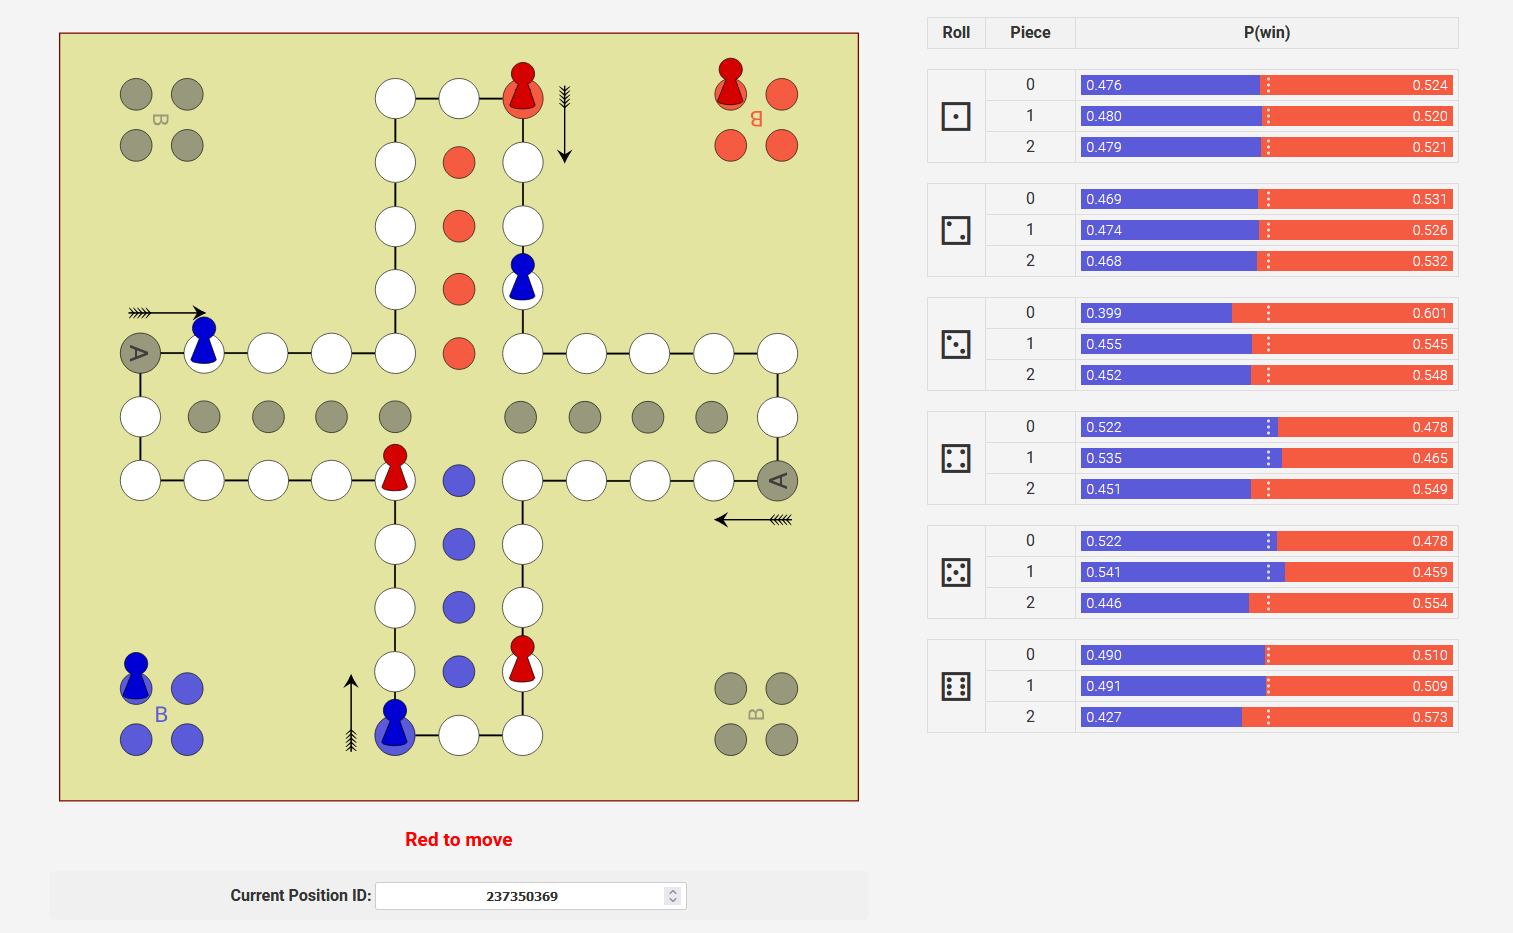
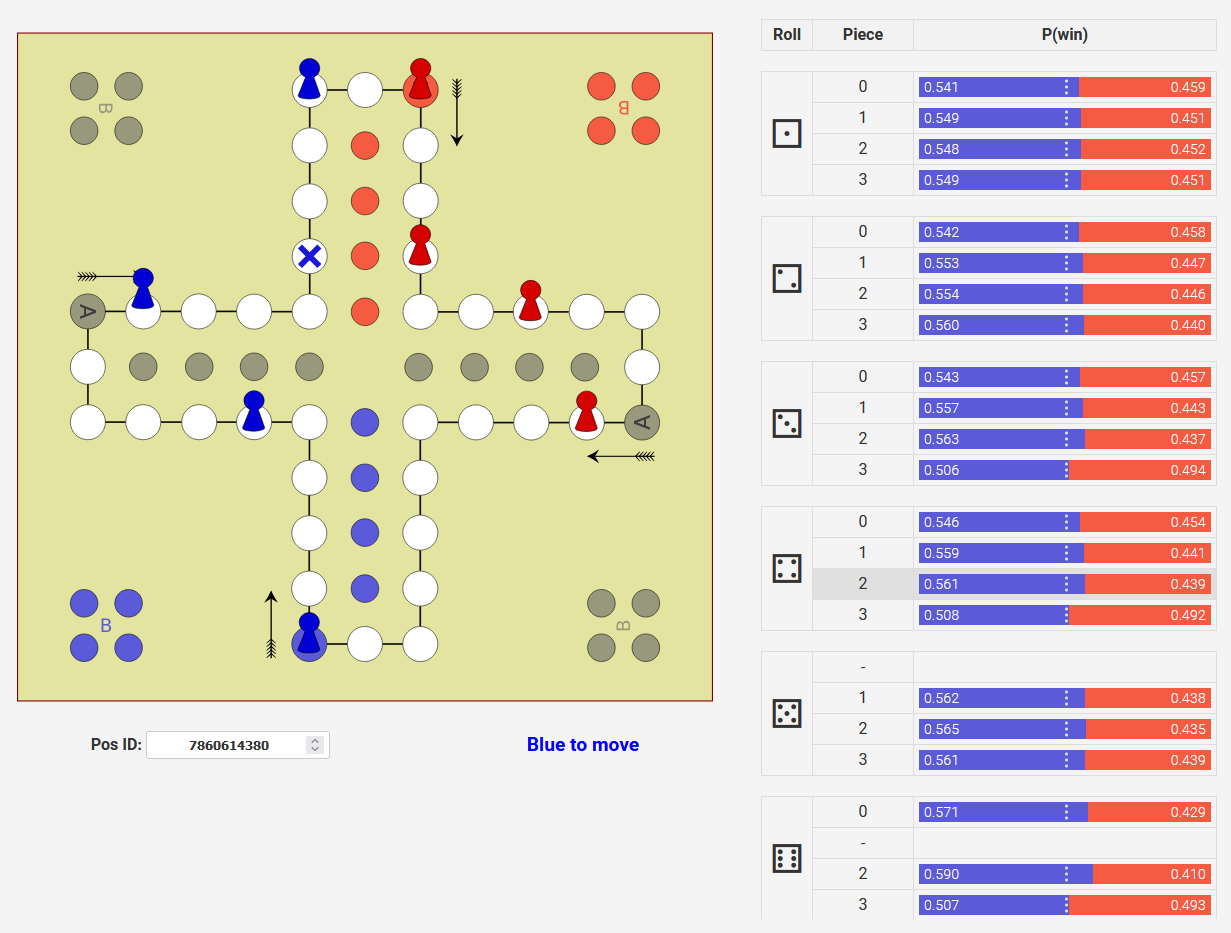
Included website in portfolio

diff --git a/README.md b/README.md
@@ -60,7 +60,7 @@ Apart from that, another big challenge was the scale of the problem. The 2-playe
 ### Results
 The algorithm successfully converged after around 140 compute hours on a 48 core machine with a clock rate of 2.1Ghz, returning the optimal winning probabilities for every possible position. The optimal playing strategy can be easily obtained from the probability table by choosing the successor with the highest winning probability.
 ![Convergence Graph Madn](img/convergence-graph-madn.jpg)
-To make the results accessible to the public, I am currently developing a website that will provide an interactive interface for users to explore the winning probabilities. This is a screenshot of how it looks so far:
+To make the results accessible to the public, I have developed a webpage that provides an interactive interface for users to explore the winning probabilities. The website can be found under [madnsolver.de](https://madnsolver.de) and looks like this:
 
 ![Madn Website](img/madn-website.png)
 
